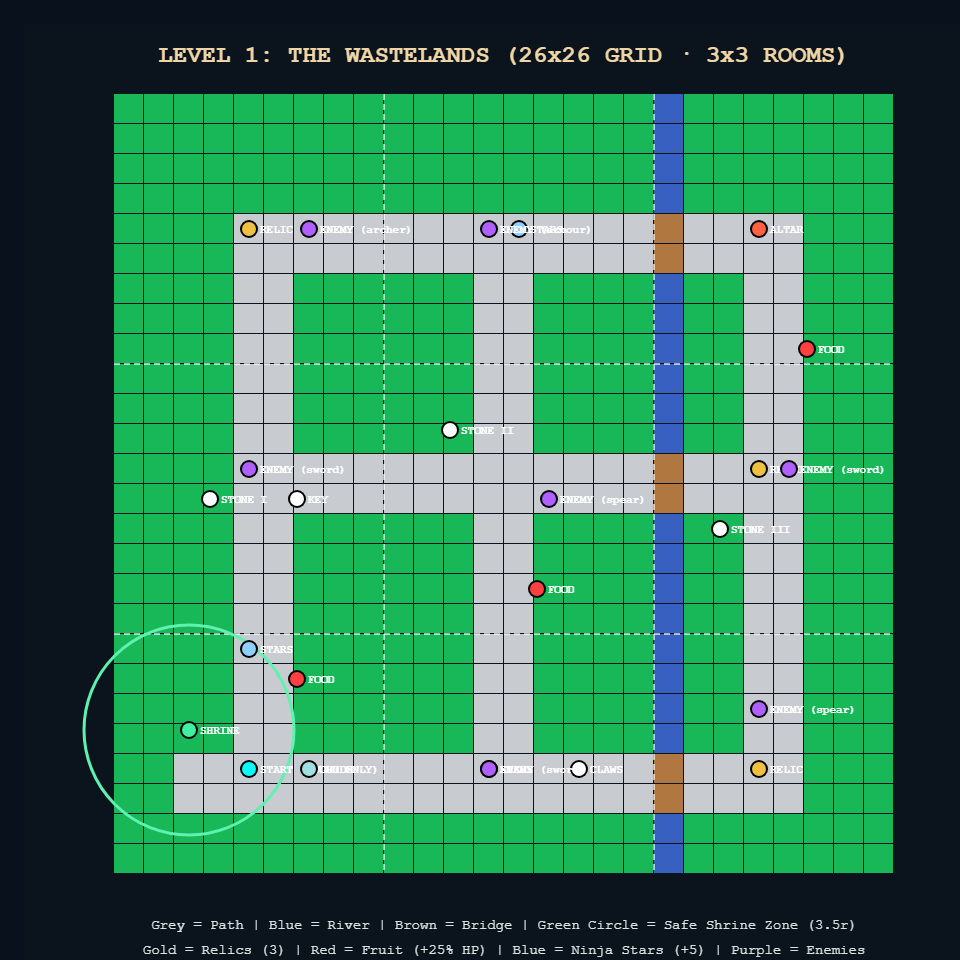
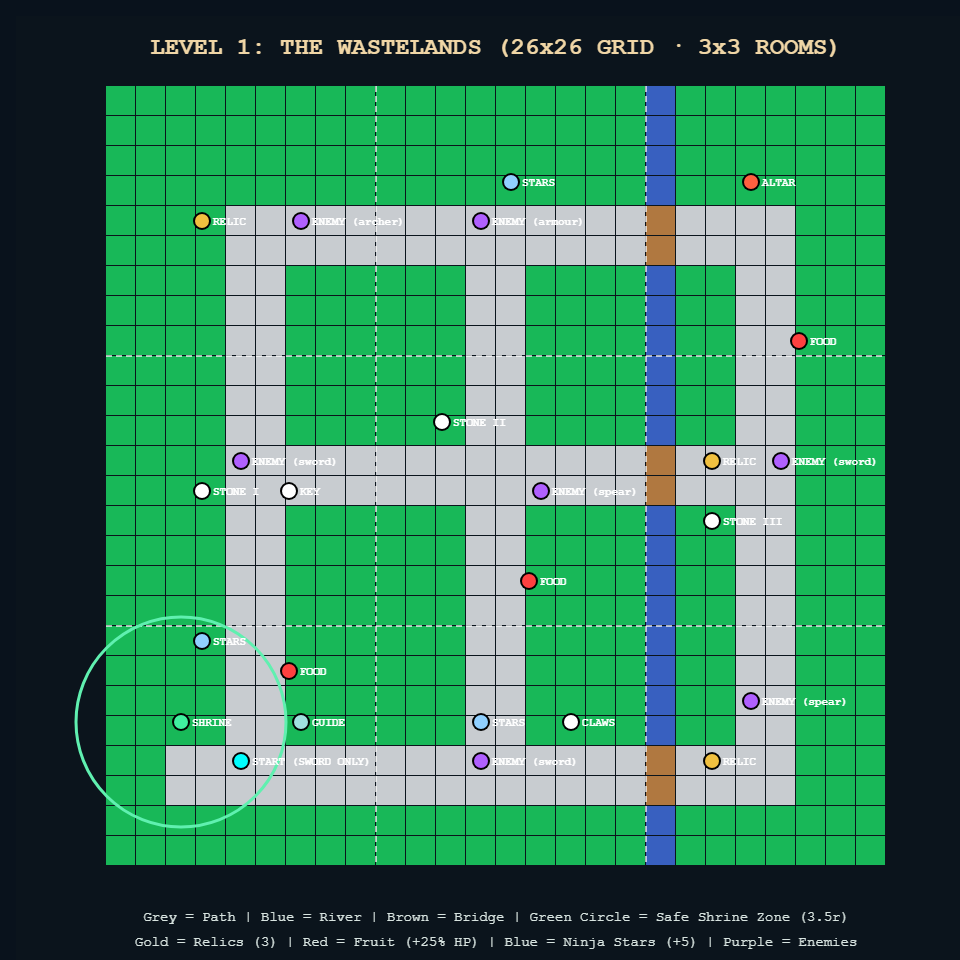
Remove all blocks and objects from pathway tiles onto grass margins

Changed region(s): [[0.0625, 0.0312, 0.9375, 0.9062], [0.1562, 0.9375, 0.9062, 1.0]]

diff --git a/core.js b/core.js
@@ -28,13 +28,13 @@ function createMap(index){
   boulders.forEach(([x,y,s])=>{props.push({x:x+.5,y:y+.5,type:'boulder',scale:s,w:1,h:1});});
   const trees=[[1,24,0],[8,21,1],[1,15,0],[7,9,1],[10,19,0],[16,24,1],[9,16,0],[16,9,1],[10,7,0],[16,1,1],[19,24,0],[24,15,1],[19,9,0],[24,7,1]];
   trees.forEach(([x,y,v])=>{props.push({x:x+.5,y:y+.5,type:'c64tree',variant:v,w:1,h:1});});
-  const objects=[{id:'shrine',type:'shrine',x:2.5,y:21.2},{id:'guide',type:'guide',x:6.5,y:22.5},
-  {id:'relic0',type:'relic',x:4.5,y:4.5},{id:'relic1',type:'relic',x:21.5,y:22.5},{id:'relic2',type:'relic',x:21.5,y:12.5},
+  const objects=[{id:'shrine',type:'shrine',x:2.5,y:21.2},{id:'guide',type:'guide',x:6.5,y:21.2},
+  {id:'relic0',type:'relic',x:3.2,y:4.5},{id:'relic1',type:'relic',x:20.2,y:22.5},{id:'relic2',type:'relic',x:20.2,y:12.5},
   {id:'node0',type:'node',number:0,x:3.2,y:13.5},{id:'node1',type:'node',number:1,x:11.2,y:11.2},{id:'node2',type:'node',number:2,x:20.2,y:14.5},
   {id:'food0',type:'food',x:6.1,y:19.5},{id:'food1',type:'food',x:14.1,y:16.5},{id:'food2',type:'food',x:23.1,y:8.5},
-  {id:'stars0',type:'stars',x:4.5,y:18.5},{id:'stars1',type:'stars',x:12.5,y:22.5},{id:'stars2',type:'stars',x:13.5,y:4.5},
-  {id:'key0',type:'key',x:6.1,y:13.5},{id:'claws0',type:'claws',x:15.5,y:22.5},
-  {id:'altar',type:'altar',x:21.5,y:4.5}];
+  {id:'stars0',type:'stars',x:3.2,y:18.5},{id:'stars1',type:'stars',x:12.5,y:21.2},{id:'stars2',type:'stars',x:13.5,y:3.2},
+  {id:'key0',type:'key',x:6.1,y:13.5},{id:'claws0',type:'claws',x:15.5,y:21.2},
+  {id:'altar',type:'altar',x:21.5,y:3.2}];
   const spawns=[
    {x:4.5,y:12.5,kind:'sword'},{x:6.5,y:4.5,kind:'archer'},
    {x:12.5,y:22.5,kind:'sword'},{x:14.5,y:13.5,kind:'spear'},{x:12.5,y:4.5,kind:'armour'},
@@ -118,7 +118,7 @@ class Game{
   else if(lockedBridge&&e.x+dx>=17.6&&!this._keyWarned){this._keyWarned=true;this.emit('message',{text:'Bridge locked · Find the Iron Key to cross East'});}
   if(walkable(this.map,e.x,e.y+dy)&&(!shrine||Math.hypot(e.x-shrine.x,e.y+dy-shrine.y)>=3.5))e.y+=dy;
  }
- nearestObject(){return this.map.objects.filter(o=>!(o.type==='relic'&&this.relics.includes(+o.id.slice(-1)))&&!(o.type==='food'&&this.foods.includes(o.id))&&!(o.type==='stars'&&this.starCaches.includes(o.id))&&!(o.type==='key'&&this.inventory.includes('key'))&&!(o.type==='claws'&&this.inventory.includes('claws'))).map(o=>({o,d:dist(o,this.player)})).filter(v=>v.d<(v.o.type==='food'||v.o.type==='shrine'||v.o.type==='key'||v.o.type==='claws'||v.o.type==='node'?1.9:1.55)).sort((a,b)=>a.d-b.d)[0]?.o;}
+ nearestObject(){return this.map.objects.filter(o=>!(o.type==='relic'&&this.relics.includes(+o.id.slice(-1)))&&!(o.type==='food'&&this.foods.includes(o.id))&&!(o.type==='stars'&&this.starCaches.includes(o.id))&&!(o.type==='key'&&this.inventory.includes('key'))&&!(o.type==='claws'&&this.inventory.includes('claws'))).map(o=>({o,d:dist(o,this.player)})).filter(v=>v.d<(this.map.pathOnly?2.1:1.55)).sort((a,b)=>a.d-b.d)[0]?.o;}
  interact(){
   if(this.dead)return;const o=this.nearestObject();if(!o){this.emit('message',{text:'Explore the path for relics, Iron Key, Dragon Nails, or apples.'});return;}
   if(o.type==='food'){if(!this.foods.includes(o.id)){this.foods.push(o.id);this.player.foodBag=(this.player.foodBag||0)+1;this.emit('effect',{name:'relic'});this.emit('message',{text:`Stored apple in HOLDING (${this.player.foodBag}) · Press [H] to eat`});}return;}

diff --git a/threejs-game.js b/threejs-game.js
@@ -618,11 +618,16 @@ function animate(now) {
     if (o.type === 'key' && game.inventory.includes('key')) continue;
     if (o.type === 'claws' && game.inventory.includes('claws')) continue;
     const readyShrine = o.type === 'shrine' && game.shrineCooldown <= 0;
-    const col = o.type === 'relic' ? '#f0c050' : o.type === 'food' ? '#e83838' : o.type === 'stars' ? '#d8e8ff' : o.type === 'key' ? '#e8c840' : o.type === 'claws' ? '#f0a030' : o.type === 'node' ? (game.puzzle.includes(o.number) ? '#60f0b0' : '#a8a8a8') : o.type === 'shrine' ? (readyShrine ? '#60f0b0' : '#586898') : o.type === 'altar' ? '#d86050' : '#d8d8d8';
-    // Render puzzle stones as flat recessed floor runes so no stone block sits on the road!
-    const geo = o.type === 'node' ? new THREE.CylinderGeometry(0.32, 0.34, 0.05, 8) : o.type === 'relic' || o.type === 'stars' ? new THREE.OctahedronGeometry(0.22) : o.type === 'food' ? new THREE.SphereGeometry(0.18, 6, 5) : o.type === 'key' || o.type === 'claws' ? new THREE.TorusGeometry(0.18, 0.06, 6, 8) : o.type === 'shrine' ? new THREE.CylinderGeometry(0.32, 0.42, 0.85, 6) : new THREE.BoxGeometry(0.42, 0.5, 0.42);
+    if (o.type === 'guide') {
+      const sage = createCharacterMesh('#2e6b5e', '#d8c088', false, false);
+      sage.position.set(o.x, 0, o.y);
+      objGroup.add(sage);
+      continue;
+    }
+    const col = o.type === 'relic' ? '#f0c050' : o.type === 'food' ? '#e83838' : o.type === 'stars' ? '#d8e8ff' : o.type === 'key' ? '#e8c840' : o.type === 'claws' ? '#f0a030' : o.type === 'node' ? (game.puzzle.includes(o.number) ? '#60f0b0' : '#a8a8a8') : o.type === 'shrine' ? (readyShrine ? '#60f0b0' : '#586898') : '#d86050';
+    const geo = o.type === 'node' ? new THREE.CylinderGeometry(0.32, 0.34, 0.05, 8) : o.type === 'relic' || o.type === 'stars' ? new THREE.OctahedronGeometry(0.22) : o.type === 'food' ? new THREE.SphereGeometry(0.18, 6, 5) : o.type === 'key' || o.type === 'claws' ? new THREE.TorusGeometry(0.18, 0.06, 6, 8) : new THREE.CylinderGeometry(0.32, 0.42, 0.85, 6);
     const mesh = new THREE.Mesh(geo, new THREE.MeshLambertMaterial({ color: col }));
-    mesh.position.set(o.x, o.type === 'node' ? 0.04 : (o.type === 'relic' || o.type === 'food' || o.type === 'stars' || o.type === 'key' || o.type === 'claws') ? 0.35 + Math.sin(now * 0.004) * 0.06 : o.type === 'shrine' ? 0.43 : 0.25, o.y);
+    mesh.position.set(o.x, o.type === 'node' ? 0.04 : (o.type === 'relic' || o.type === 'food' || o.type === 'stars' || o.type === 'key' || o.type === 'claws') ? 0.35 + Math.sin(now * 0.004) * 0.06 : 0.43, o.y);
     if (o.type === 'stars' || o.type === 'key' || o.type === 'claws') mesh.rotation.y = now * 0.004;
     mesh.castShadow = o.type !== 'node';
     objGroup.add(mesh);
